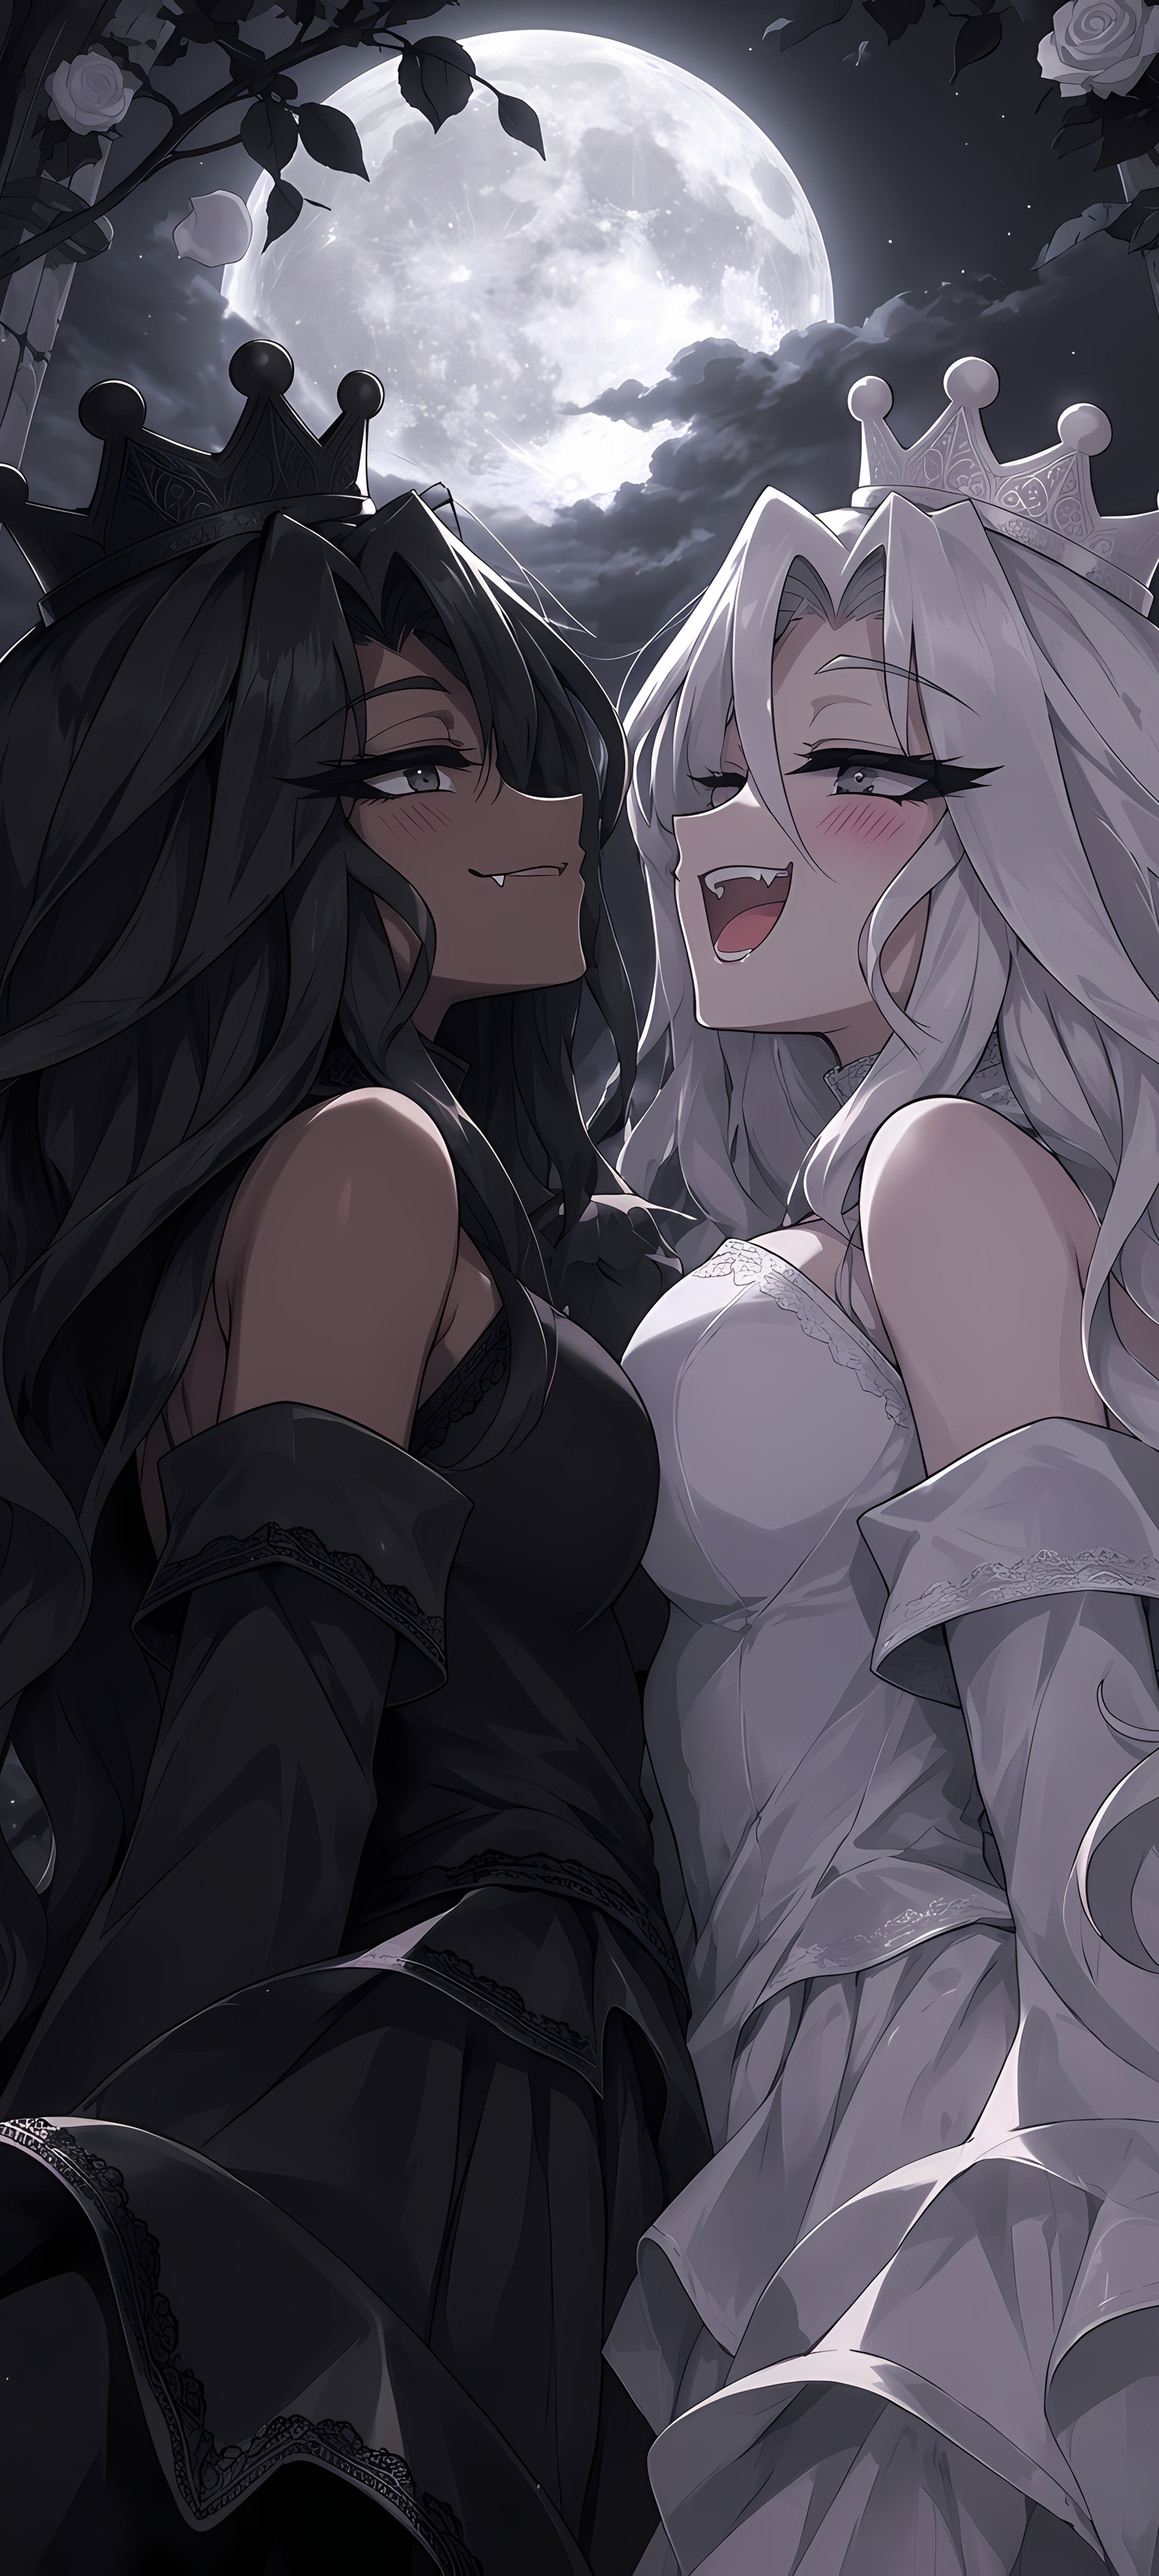
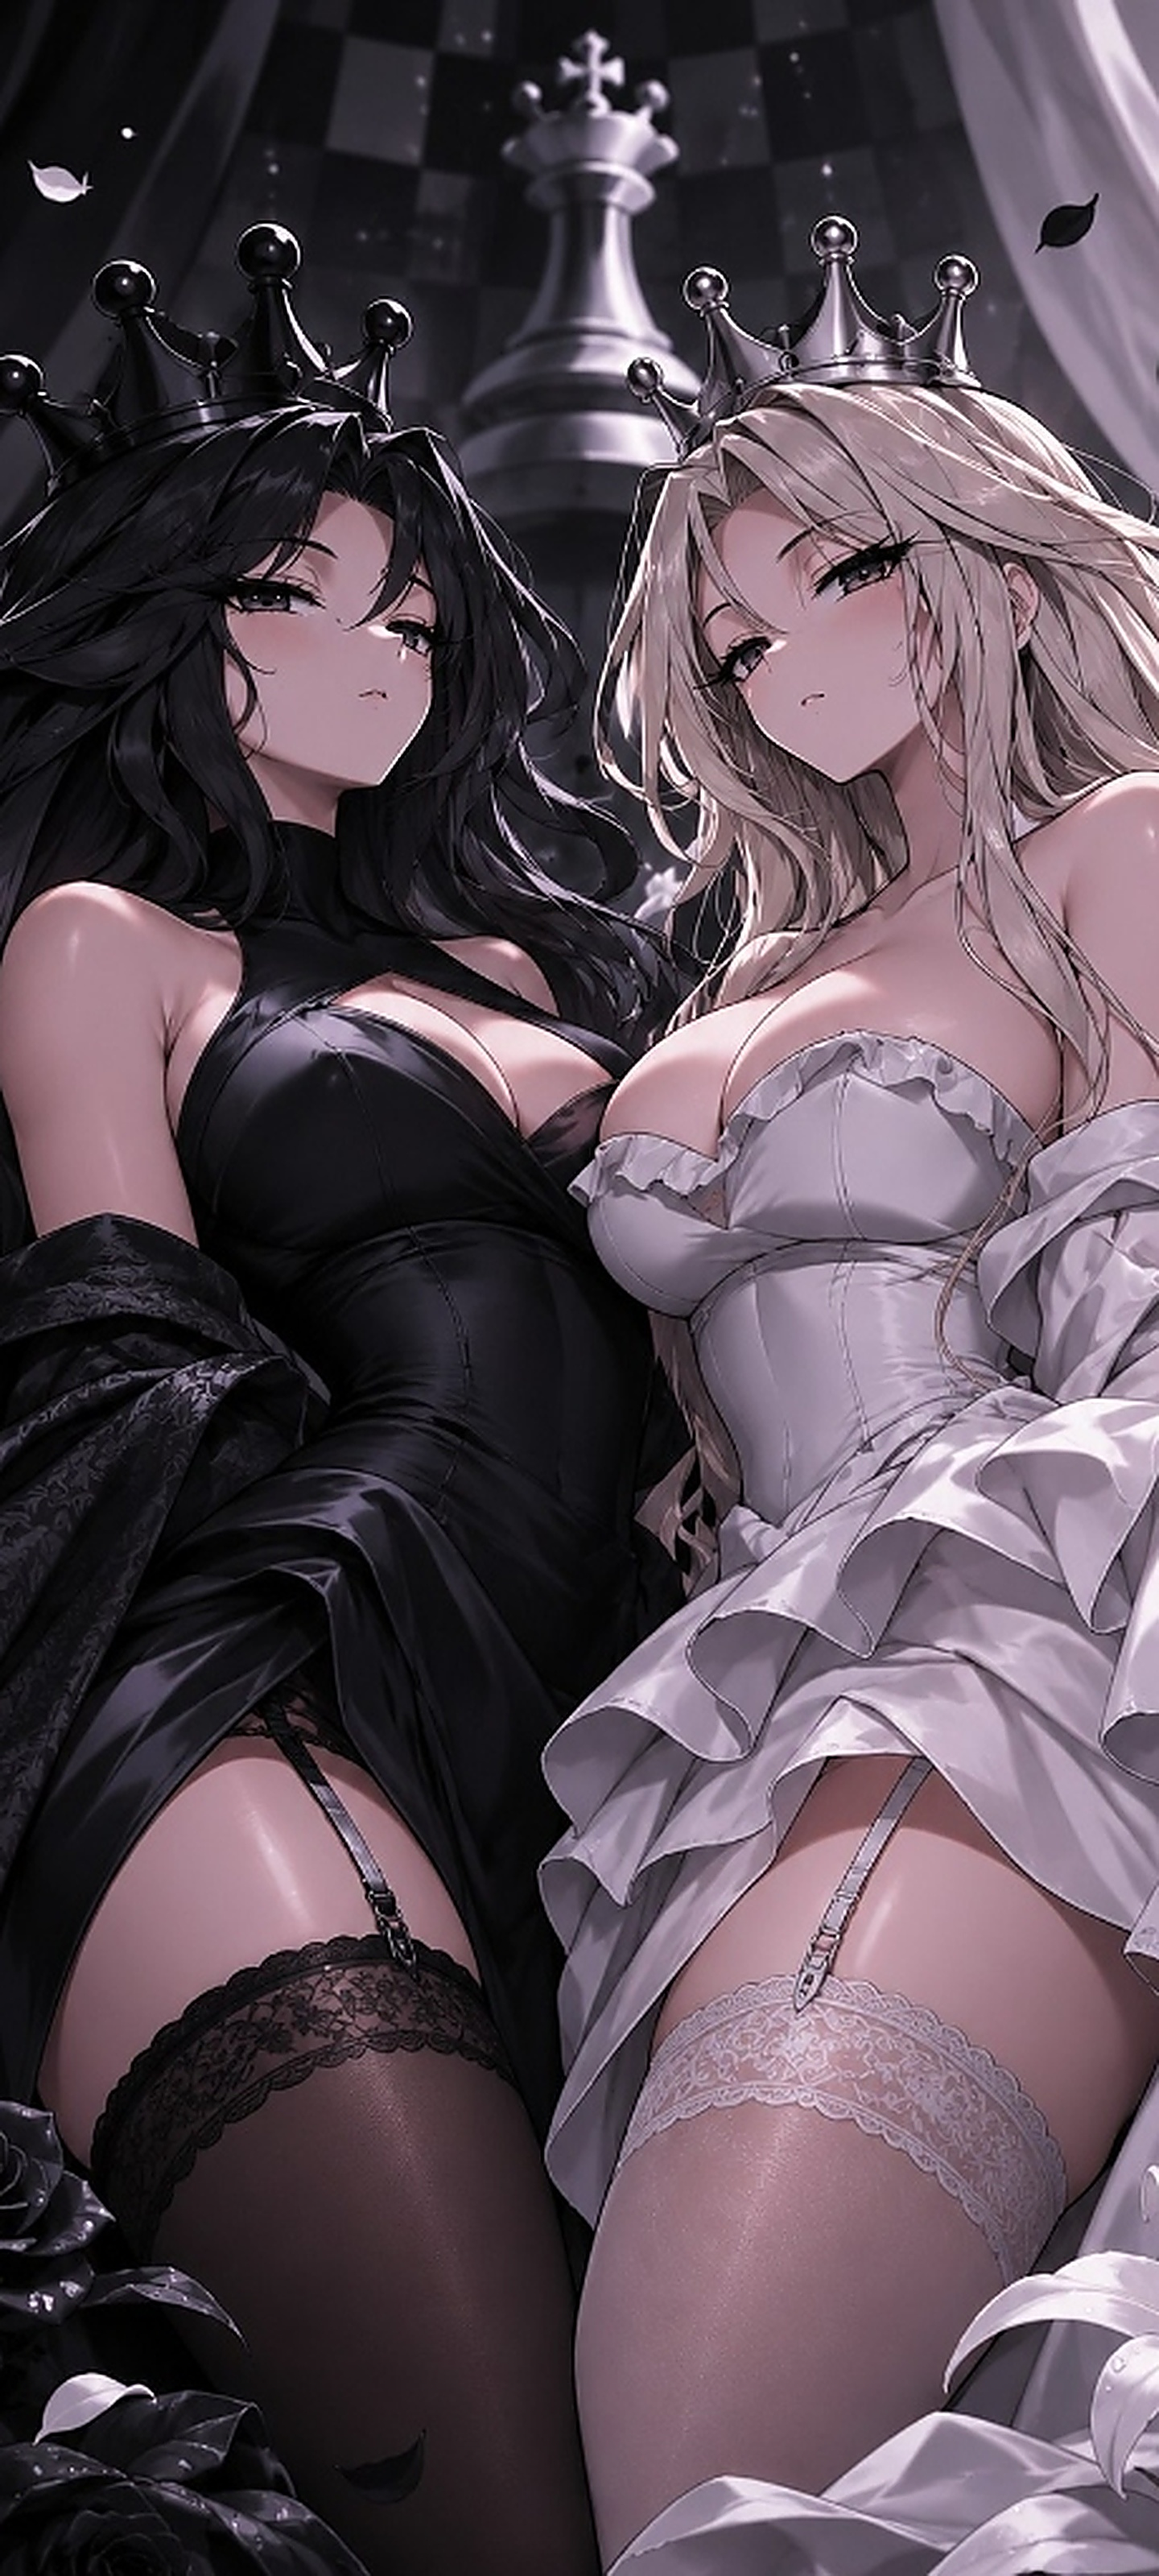
Add 1440x3200 D Killer Wife and update Twin Queens in DLS catalog

diff --git a/.github/scripts/generate_catalog.py b/.github/scripts/generate_catalog.py
@@ -16,7 +16,7 @@ existing_update = {
     "versionCode": 15,
     "versionName": "0.0.13.2-beta",
     "changelog": "Fixes release download redirect validation for GitHub CDN assets.",
-    "downloadUrl": "https://github.com/MorhPanel/WallNice/releases/latest/download/app-release.apk"
+    "downloadUrl": "https://github.com/MorhPanel/WallNice/releases/download/v0.0.13.2-beta/app-release.apk"
 }
 
 if os.path.exists(CATALOG_PATH):
